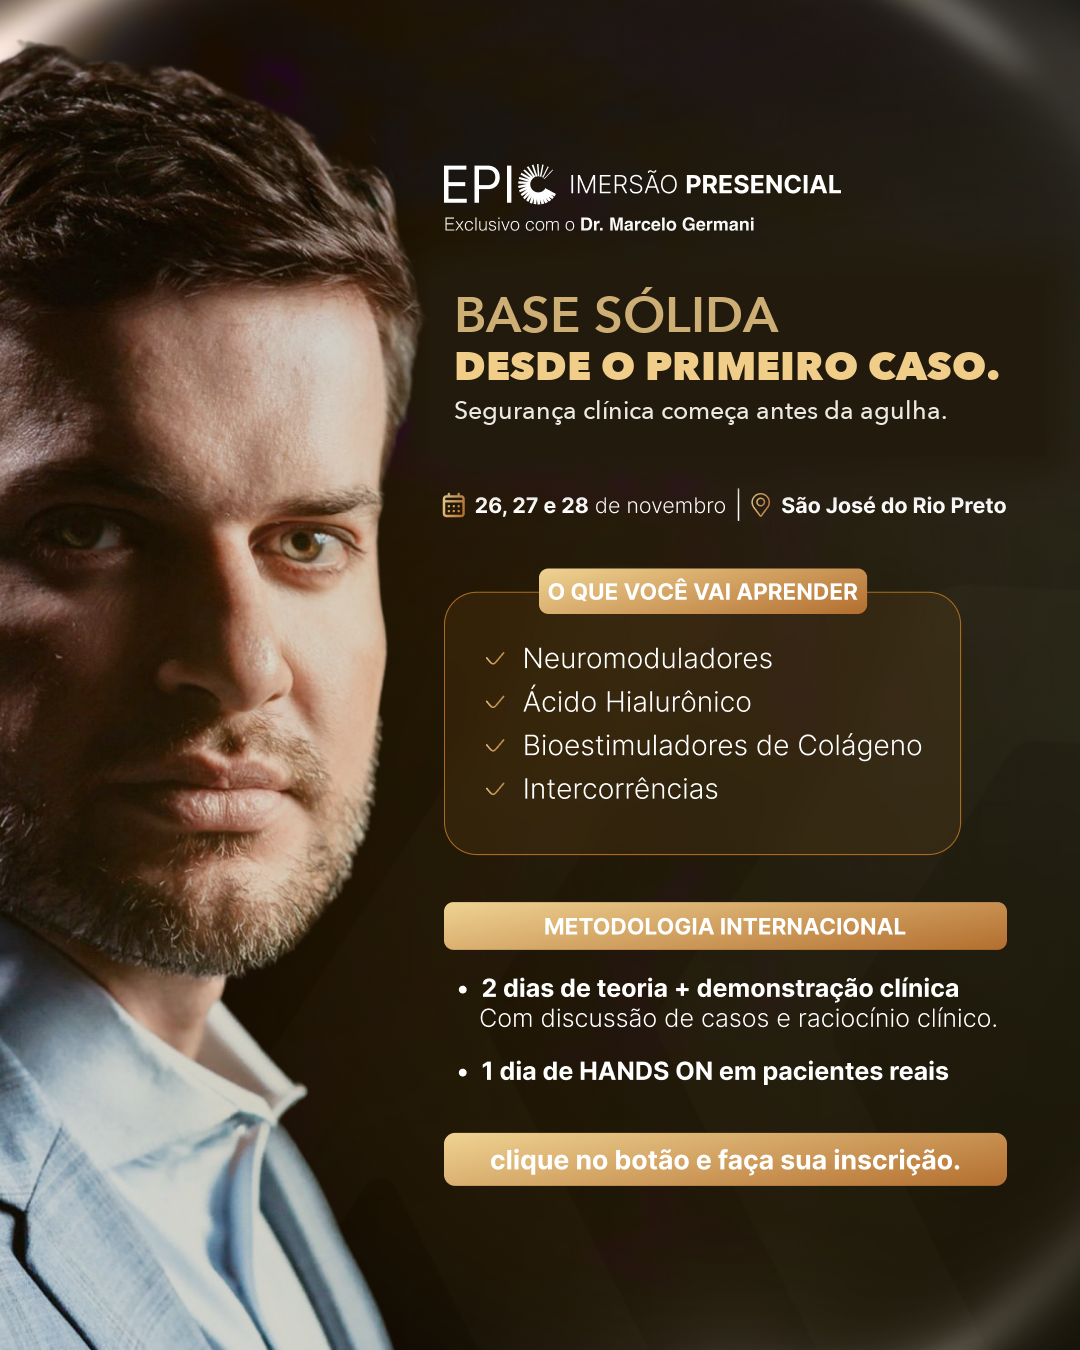
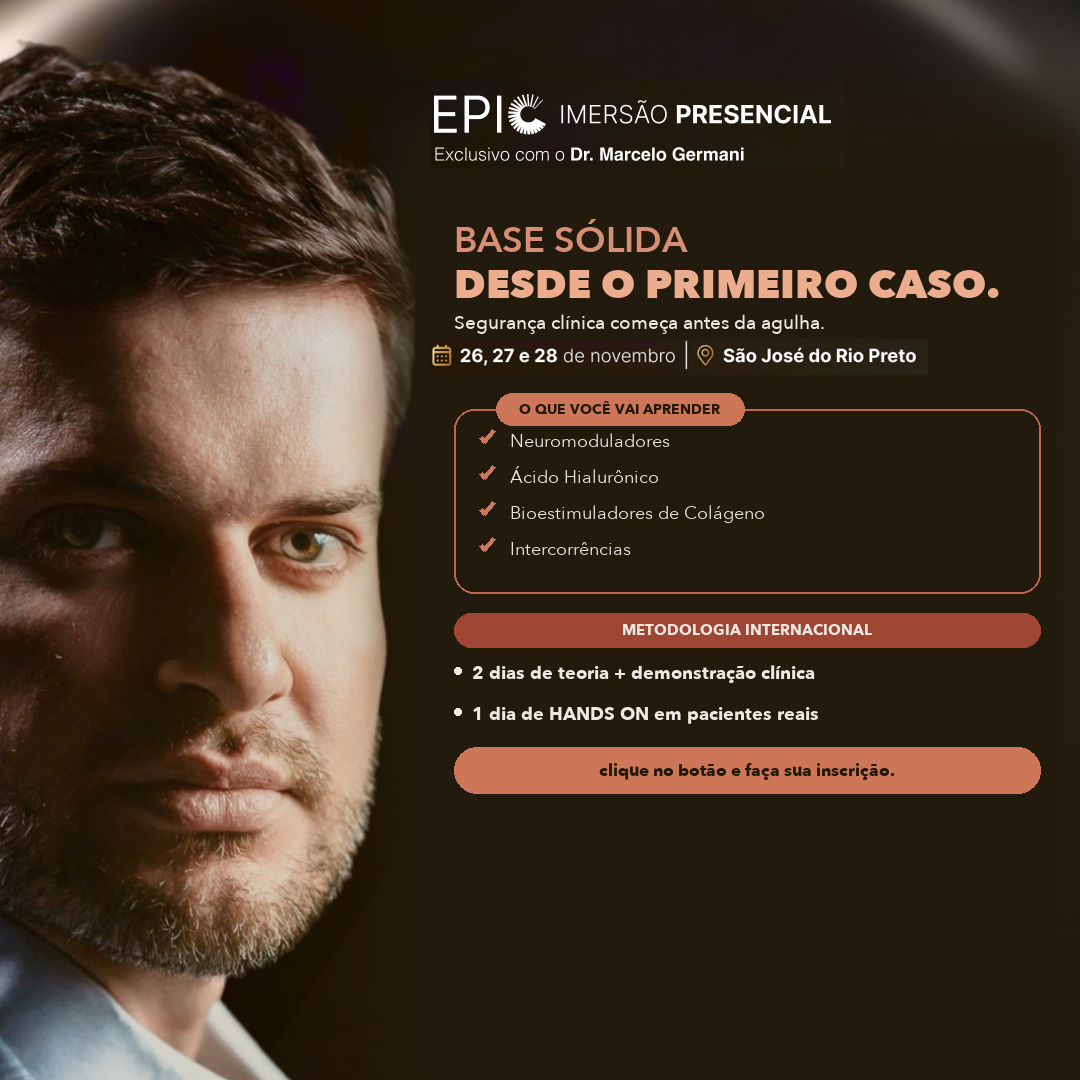
HOF: EPIC Nov/26 com cor e formato variados (dourado/teal/terracota, feed 1:1/4:5, story 9:16)

diff --git a/hof/epic-nov26-criativos/index.html b/hof/epic-nov26-criativos/index.html
@@ -74,8 +74,8 @@ h1{font-size:clamp(32px,4.6vw,46px);line-height:1.05;letter-spacing:-.015em}
 <header class="topo">
   <div><p class="olho">HOF Germani · Dr. Marcelo Germani</p>
   <h1>EPIC — criativos para<br>aprovação</h1>
-  <p class="sub-t">Dez propostas de criativo para a nova turma do EPIC, cobrindo os três perfis de público do curso: quem já atua e quer ir além da execução, quem já atua e quer evoluir o planejamento, e quem está iniciando na HOF. Copy pronta pra subir + direção de criativo visual em cada peça.</p></div>
-  <div class="selo"><b>10</b>propostas de criativo<br>3 perfis de público<br>Meta · Feed e Reels</div>
+  <p class="sub-t">Dez peças prontas para a nova turma do EPIC, variando formato (Feed 1:1, Feed 4:5 e Story/Reels 9:16) e paleta de cor (dourado, verde-petróleo e terracota) para teste real de criativo — mesma foto do Dr. Marcelo e mesma estrutura de oferta, mudando gancho, cor e enquadramento por peça.</p></div>
+  <div class="selo"><b>10</b>peças montadas<br>3 formatos<br>3 paletas de cor</div>
 </header>
 
 <section class="bloco">
@@ -96,107 +96,107 @@ h1{font-size:clamp(32px,4.6vw,46px);line-height:1.05;letter-spacing:-.015em}
 
 <section class="bloco">
   <div class="curso-cab"><div><p class="olho">Para aprovação</p><h2>As dez peças</h2></div></div>
-  <p class="nota-secao">Mesma estrutura de evento em todas — muda o gancho e o público. Formato pensado para Meta (Feed 1:1 e Reels 9:16). É aprovar a copy e a direção visual, e a gente já parte pra produção da arte.</p>
+  <p class="nota-secao">Mesma foto do Dr. Marcelo e mesma oferta em todas — muda o gancho, o público, o formato (Feed 1:1, Feed 4:5 ou Story/Reels 9:16) e a paleta de cor (dourado, verde-petróleo ou terracota), pra já nascer como teste de criativo de verdade. Peças já em tamanho final — é aprovar e subir.</p>
   <div class="props">
 
     <article class="prop">
       <a class="prop-img" href="/criativos/hof-epic-nov26/EPIC01_ALEMDAEXECUCAO.png" target="_blank" rel="noopener"><img src="/criativos/hof-epic-nov26/EPIC01_ALEMDAEXECUCAO.png" alt="EPIC01_ALEMDAEXECUCAO" loading="lazy" width="1080" height="1350"></a>
-      <div class="prop-top"><span class="t-n">01 · Reels</span><span class="prop-pub">Já atua — ir além</span></div>
+      <div class="prop-top"><span class="t-n">01 · Feed 4:5</span><span class="prop-pub">Já atua — ir além</span></div>
       <h4>Saber executar não é o mesmo que saber decidir</h4>
-      <span class="prop-arq">EPIC01_ALEMDAEXECUCAO_REELS</span>
+      <span class="prop-arq">EPIC01_ALEMDAEXECUCAO.png · Dourado</span>
       <pre class="prop-copy">Você domina a técnica. Mas sabe explicar por que escolheu aquele produto, naquele ponto, para aquele paciente? O EPIC aprofunda o raciocínio clínico por trás de cada decisão em HOF — com o Dr. Marcelo Germani, 3 dias de imersão presencial.</pre>
       <p class="prop-meta"><b>Descrição:</b> 26 a 28/11 · São José do Rio Preto/SP</p>
-      <p class="prop-visual"><b>Sugestão visual:</b> Dr. Marcelo explicando um planejamento facial em tela/modelo anatômico, tom sério e técnico — bastidor de aula, não procedimento.</p>
+      <p class="prop-visual"><b>Direção visual:</b> Dr. Marcelo explicando um planejamento facial em tela/modelo anatômico, tom sério e técnico — bastidor de aula, não procedimento.</p>
     </article>
 
     <article class="prop">
-      <a class="prop-img" href="/criativos/hof-epic-nov26/EPIC02_COMOPORQUE.png" target="_blank" rel="noopener"><img src="/criativos/hof-epic-nov26/EPIC02_COMOPORQUE.png" alt="EPIC02_COMOPORQUE" loading="lazy" width="1080" height="1350"></a>
-      <div class="prop-top"><span class="t-n">02 · Feed</span><span class="prop-pub">Já atua — evoluir planejamento</span></div>
+      <a class="prop-img" href="/criativos/hof-epic-nov26/EPIC02_COMOPORQUE.png" target="_blank" rel="noopener"><img src="/criativos/hof-epic-nov26/EPIC02_COMOPORQUE.png" alt="EPIC02_COMOPORQUE" loading="lazy" width="1080" height="1080"></a>
+      <div class="prop-top"><span class="t-n">02 · Feed 1:1</span><span class="prop-pub">Já atua — evoluir planejamento</span></div>
       <h4>Do "como fazer" para o "por que fazer"</h4>
-      <span class="prop-arq">EPIC02_COMOPORQUE_FEED</span>
+      <span class="prop-arq">EPIC02_COMOPORQUE.png · Verde-petróleo</span>
       <pre class="prop-copy">Se você sente que ainda falta segurança para definir prioridades e montar planejamentos mais completos, o EPIC foi pensado pra isso. 3 dias com o Dr. Marcelo Germani: ciência, demonstração clínica ao vivo e prática supervisionada.</pre>
       <p class="prop-meta"><b>Descrição:</b> Neuromoduladores, ácido hialurônico e bioestimuladores — com visão clínica baseada em evidências.</p>
-      <p class="prop-visual"><b>Sugestão visual:</b> Carrossel ou estático com os "3 dias" ilustrados em ícones simples (cérebro/olho/mão) + foto do Dr. Marcelo.</p>
+      <p class="prop-visual"><b>Direção visual:</b> Carrossel ou estático com os "3 dias" ilustrados em ícones simples (cérebro/olho/mão) + foto do Dr. Marcelo.</p>
     </article>
 
     <article class="prop">
-      <a class="prop-img" href="/criativos/hof-epic-nov26/EPIC03_NAOPRECISASABER.png" target="_blank" rel="noopener"><img src="/criativos/hof-epic-nov26/EPIC03_NAOPRECISASABER.png" alt="EPIC03_NAOPRECISASABER" loading="lazy" width="1080" height="1350"></a>
-      <div class="prop-top"><span class="t-n">03 · Reels</span><span class="prop-pub">Iniciante</span></div>
+      <a class="prop-img" href="/criativos/hof-epic-nov26/EPIC03_NAOPRECISASABER.png" target="_blank" rel="noopener"><img src="/criativos/hof-epic-nov26/EPIC03_NAOPRECISASABER.png" alt="EPIC03_NAOPRECISASABER" loading="lazy" width="1080" height="1920"></a>
+      <div class="prop-top"><span class="t-n">03 · Story/Reels 9:16</span><span class="prop-pub">Iniciante</span></div>
       <h4>Você não precisa chegar já sabendo tudo</h4>
-      <span class="prop-arq">EPIC03_NAOPRECISASABER_REELS</span>
+      <span class="prop-arq">EPIC03_NAOPRECISASABER.png · Terracota</span>
       <pre class="prop-copy">O EPIC foi estruturado para quem está começando na Harmonização Facial: primeiro você entende, depois vê na prática, e só então executa — com supervisão direta do Dr. Marcelo Germani.</pre>
       <p class="prop-meta"><b>Descrição:</b> 3 dias de imersão presencial · 26 a 28/11 · Rio Preto/SP</p>
-      <p class="prop-visual"><b>Sugestão visual:</b> Depoimento ou fala direta pra câmera do Dr. Marcelo acolhendo quem está começando ("você não precisa dominar a técnica pra vir").</p>
+      <p class="prop-visual"><b>Direção visual:</b> Depoimento ou fala direta pra câmera do Dr. Marcelo acolhendo quem está começando ("você não precisa dominar a técnica pra vir").</p>
     </article>
 
     <article class="prop">
       <a class="prop-img" href="/criativos/hof-epic-nov26/EPIC04_LINHADOTEMPO3DIAS.png" target="_blank" rel="noopener"><img src="/criativos/hof-epic-nov26/EPIC04_LINHADOTEMPO3DIAS.png" alt="EPIC04_LINHADOTEMPO3DIAS" loading="lazy" width="1080" height="1350"></a>
-      <div class="prop-top"><span class="t-n">04 · Feed</span><span class="prop-pub">Já atua — ir além</span></div>
+      <div class="prop-top"><span class="t-n">04 · Feed 4:5</span><span class="prop-pub">Já atua — ir além</span></div>
       <h4>Anatomia + raciocínio clínico + prática supervisionada</h4>
-      <span class="prop-arq">EPIC04_LINHADOTEMPO3DIAS_FEED</span>
+      <span class="prop-arq">EPIC04_LINHADOTEMPO3DIAS.png · Verde-petróleo</span>
       <pre class="prop-copy">O EPIC conecta ciência, planejamento e execução em uma metodologia progressiva de 3 dias. Você entende o fundamento, acompanha casos reais e pratica com supervisão do Dr. Marcelo Germani.</pre>
       <p class="prop-meta"><b>Descrição:</b> Inclui 3 meses de acesso ao HSS PLAY.</p>
-      <p class="prop-visual"><b>Sugestão visual:</b> Grade/linha do tempo visual dos 3 dias (Dia 1: Ciência · Dia 2: Demonstração · Dia 3: Hands-on).</p>
+      <p class="prop-visual"><b>Direção visual:</b> Grade/linha do tempo visual dos 3 dias (Dia 1: Ciência · Dia 2: Demonstração · Dia 3: Hands-on).</p>
     </article>
 
     <article class="prop">
-      <a class="prop-img" href="/criativos/hof-epic-nov26/EPIC05_BASESOLIDA.png" target="_blank" rel="noopener"><img src="/criativos/hof-epic-nov26/EPIC05_BASESOLIDA.png" alt="EPIC05_BASESOLIDA" loading="lazy" width="1080" height="1350"></a>
-      <div class="prop-top"><span class="t-n">05 · Reels</span><span class="prop-pub">Iniciante</span></div>
+      <a class="prop-img" href="/criativos/hof-epic-nov26/EPIC05_BASESOLIDA.png" target="_blank" rel="noopener"><img src="/criativos/hof-epic-nov26/EPIC05_BASESOLIDA.png" alt="EPIC05_BASESOLIDA" loading="lazy" width="1080" height="1080"></a>
+      <div class="prop-top"><span class="t-n">05 · Feed 1:1</span><span class="prop-pub">Iniciante</span></div>
       <h4>Base sólida desde o primeiro procedimento</h4>
-      <span class="prop-arq">EPIC05_BASESOLIDA_REELS</span>
+      <span class="prop-arq">EPIC05_BASESOLIDA.png · Terracota</span>
       <pre class="prop-copy">Construir segurança clínica começa antes da agulha. No EPIC, você aprende anatomia aplicada, planejamento e seleção de produtos antes de colocar a mão — com o Dr. Marcelo Germani.</pre>
       <p class="prop-meta"><b>Descrição:</b> 26, 27 e 28 de novembro · Hilton Garden Inn, São José do Rio Preto/SP</p>
-      <p class="prop-visual"><b>Sugestão visual:</b> Bastidor de sala de aula teórica (dia 1), ambiente organizado, Dr. Marcelo ensinando com modelo anatômico.</p>
+      <p class="prop-visual"><b>Direção visual:</b> Bastidor de sala de aula teórica (dia 1), ambiente organizado, Dr. Marcelo ensinando com modelo anatômico.</p>
     </article>
 
     <article class="prop">
-      <a class="prop-img" href="/criativos/hof-epic-nov26/EPIC06_QUALPRODUTO.png" target="_blank" rel="noopener"><img src="/criativos/hof-epic-nov26/EPIC06_QUALPRODUTO.png" alt="EPIC06_QUALPRODUTO" loading="lazy" width="1080" height="1350"></a>
-      <div class="prop-top"><span class="t-n">06 · Feed</span><span class="prop-pub">Já atua — evoluir planejamento</span></div>
+      <a class="prop-img" href="/criativos/hof-epic-nov26/EPIC06_QUALPRODUTO.png" target="_blank" rel="noopener"><img src="/criativos/hof-epic-nov26/EPIC06_QUALPRODUTO.png" alt="EPIC06_QUALPRODUTO" loading="lazy" width="1080" height="1920"></a>
+      <div class="prop-top"><span class="t-n">06 · Story/Reels 9:16</span><span class="prop-pub">Já atua — evoluir planejamento</span></div>
       <h4>Qual produto, quando usar e quando não usar</h4>
-      <span class="prop-arq">EPIC06_QUALPRODUTO_FEED</span>
+      <span class="prop-arq">EPIC06_QUALPRODUTO.png · Dourado</span>
       <pre class="prop-copy">Dominar a técnica é só parte do caminho. O EPIC aprofunda neuromoduladores, ácido hialurônico, bioestimuladores e prevenção de complicações — para você decidir com mais segurança em cada caso.</pre>
       <p class="prop-meta"><b>Descrição:</b> 3 dias com o Dr. Marcelo Germani · 26 a 28/11</p>
-      <p class="prop-visual"><b>Sugestão visual:</b> Foto de produtos/materiais organizados na mesa de planejamento, estética clínica e profissional.</p>
+      <p class="prop-visual"><b>Direção visual:</b> Foto de produtos/materiais organizados na mesa de planejamento, estética clínica e profissional.</p>
     </article>
 
     <article class="prop">
       <a class="prop-img" href="/criativos/hof-epic-nov26/EPIC07_DEMOAOVIVO.png" target="_blank" rel="noopener"><img src="/criativos/hof-epic-nov26/EPIC07_DEMOAOVIVO.png" alt="EPIC07_DEMOAOVIVO" loading="lazy" width="1080" height="1350"></a>
-      <div class="prop-top"><span class="t-n">07 · Reels</span><span class="prop-pub">Todos — autoridade</span></div>
+      <div class="prop-top"><span class="t-n">07 · Feed 4:5</span><span class="prop-pub">Todos — autoridade</span></div>
       <h4>Você vê o Dr. Marcelo atendendo pacientes ao vivo</h4>
-      <span class="prop-arq">EPIC07_DEMOAOVIVO_REELS</span>
+      <span class="prop-arq">EPIC07_DEMOAOVIVO.png · Terracota</span>
       <pre class="prop-copy">No 2º dia do EPIC, você acompanha casos reais conduzidos pelo Dr. Marcelo Germani — avaliação, planejamento, escolha de produtos e execução, passo a passo, explicados na hora.</pre>
       <p class="prop-meta"><b>Descrição:</b> Imersão presencial · 26 a 28/11 · Rio Preto/SP</p>
-      <p class="prop-visual"><b>Sugestão visual:</b> Clipe real de demonstração clínica de uma edição anterior (se houver), ou still de consultório com o Dr. Marcelo em atendimento.</p>
+      <p class="prop-visual"><b>Direção visual:</b> Clipe real de demonstração clínica de uma edição anterior (se houver), ou still de consultório com o Dr. Marcelo em atendimento.</p>
     </article>
 
     <article class="prop">
-      <a class="prop-img" href="/criativos/hof-epic-nov26/EPIC08_ENTENDEVEFAZ.png" target="_blank" rel="noopener"><img src="/criativos/hof-epic-nov26/EPIC08_ENTENDEVEFAZ.png" alt="EPIC08_ENTENDEVEFAZ" loading="lazy" width="1080" height="1350"></a>
-      <div class="prop-top"><span class="t-n">08 · Feed</span><span class="prop-pub">Iniciante</span></div>
+      <a class="prop-img" href="/criativos/hof-epic-nov26/EPIC08_ENTENDEVEFAZ.png" target="_blank" rel="noopener"><img src="/criativos/hof-epic-nov26/EPIC08_ENTENDEVEFAZ.png" alt="EPIC08_ENTENDEVEFAZ" loading="lazy" width="1080" height="1080"></a>
+      <div class="prop-top"><span class="t-n">08 · Feed 1:1</span><span class="prop-pub">Iniciante</span></div>
       <h4>Primeiro você entende. Depois você vê. Então você faz.</h4>
-      <span class="prop-arq">EPIC08_ENTENDEVEFAZ_FEED</span>
+      <span class="prop-arq">EPIC08_ENTENDEVEFAZ.png · Dourado</span>
       <pre class="prop-copy">Essa é a lógica do EPIC: 3 dias construídos para quem está iniciando na Harmonização Facial, do fundamento teórico até a prática supervisionada com o Dr. Marcelo Germani e equipe.</pre>
       <p class="prop-meta"><b>Descrição:</b> 26, 27 e 28/11 · Hilton Garden Inn, São José do Rio Preto/SP</p>
-      <p class="prop-visual"><b>Sugestão visual:</b> Três fotos lado a lado (sala de aula → demonstração → hands-on) numa sequência visual de progresso.</p>
+      <p class="prop-visual"><b>Direção visual:</b> Três fotos lado a lado (sala de aula → demonstração → hands-on) numa sequência visual de progresso.</p>
     </article>
 
     <article class="prop">
-      <a class="prop-img" href="/criativos/hof-epic-nov26/EPIC09_EXECUTARXENTENDER.png" target="_blank" rel="noopener"><img src="/criativos/hof-epic-nov26/EPIC09_EXECUTARXENTENDER.png" alt="EPIC09_EXECUTARXENTENDER" loading="lazy" width="1080" height="1350"></a>
-      <div class="prop-top"><span class="t-n">09 · Reels</span><span class="prop-pub">Já atua — ir além</span></div>
+      <a class="prop-img" href="/criativos/hof-epic-nov26/EPIC09_EXECUTARXENTENDER.png" target="_blank" rel="noopener"><img src="/criativos/hof-epic-nov26/EPIC09_EXECUTARXENTENDER.png" alt="EPIC09_EXECUTARXENTENDER" loading="lazy" width="1080" height="1920"></a>
+      <div class="prop-top"><span class="t-n">09 · Story/Reels 9:16</span><span class="prop-pub">Já atua — ir além</span></div>
       <h4>O que separa quem executa de quem realmente entende</h4>
-      <span class="prop-arq">EPIC09_EXECUTARXENTENDER_REELS</span>
+      <span class="prop-arq">EPIC09_EXECUTARXENTENDER.png · Verde-petróleo</span>
       <pre class="prop-copy">O EPIC não ensina só técnica — ensina o raciocínio clínico por trás de cada escolha. 3 dias de imersão com o Dr. Marcelo Germani, prática supervisionada e 3 meses de HSS PLAY incluso.</pre>
       <p class="prop-meta"><b>Descrição:</b> 26 a 28 de novembro · São José do Rio Preto/SP</p>
-      <p class="prop-visual"><b>Sugestão visual:</b> Dr. Marcelo falando direto pra câmera (hook forte), fundo de consultório ou sala de imersão.</p>
+      <p class="prop-visual"><b>Direção visual:</b> Dr. Marcelo falando direto pra câmera (hook forte), fundo de consultório ou sala de imersão.</p>
     </article>
 
     <article class="prop">
       <a class="prop-img" href="/criativos/hof-epic-nov26/EPIC10_BONUSHSSPLAY.png" target="_blank" rel="noopener"><img src="/criativos/hof-epic-nov26/EPIC10_BONUSHSSPLAY.png" alt="EPIC10_BONUSHSSPLAY" loading="lazy" width="1080" height="1350"></a>
-      <div class="prop-top"><span class="t-n">10 · Feed</span><span class="prop-pub">Todos — bônus</span></div>
+      <div class="prop-top"><span class="t-n">10 · Feed 4:5</span><span class="prop-pub">Todos — bônus</span></div>
       <h4>3 dias presenciais + 3 meses de conteúdo pra revisar depois</h4>
-      <span class="prop-arq">EPIC10_BONUSHSSPLAY_FEED</span>
+      <span class="prop-arq">EPIC10_BONUSHSSPLAY.png · Dourado</span>
       <pre class="prop-copy">Além da imersão presencial com o Dr. Marcelo Germani, você leva 3 meses de acesso ao HSS PLAY para continuar estudando e revisando tudo depois do EPIC.</pre>
       <p class="prop-meta"><b>Descrição:</b> 26 a 28/11 · Hilton Garden Inn, São José do Rio Preto/SP</p>
-      <p class="prop-visual"><b>Sugestão visual:</b> Peça com destaque no bônus (ícone de play/tela), visual mais "oferta" que as demais.</p>
+      <p class="prop-visual"><b>Direção visual:</b> Peça com destaque no bônus (ícone de play/tela), visual mais "oferta" que as demais.</p>
     </article>
 
   </div>
